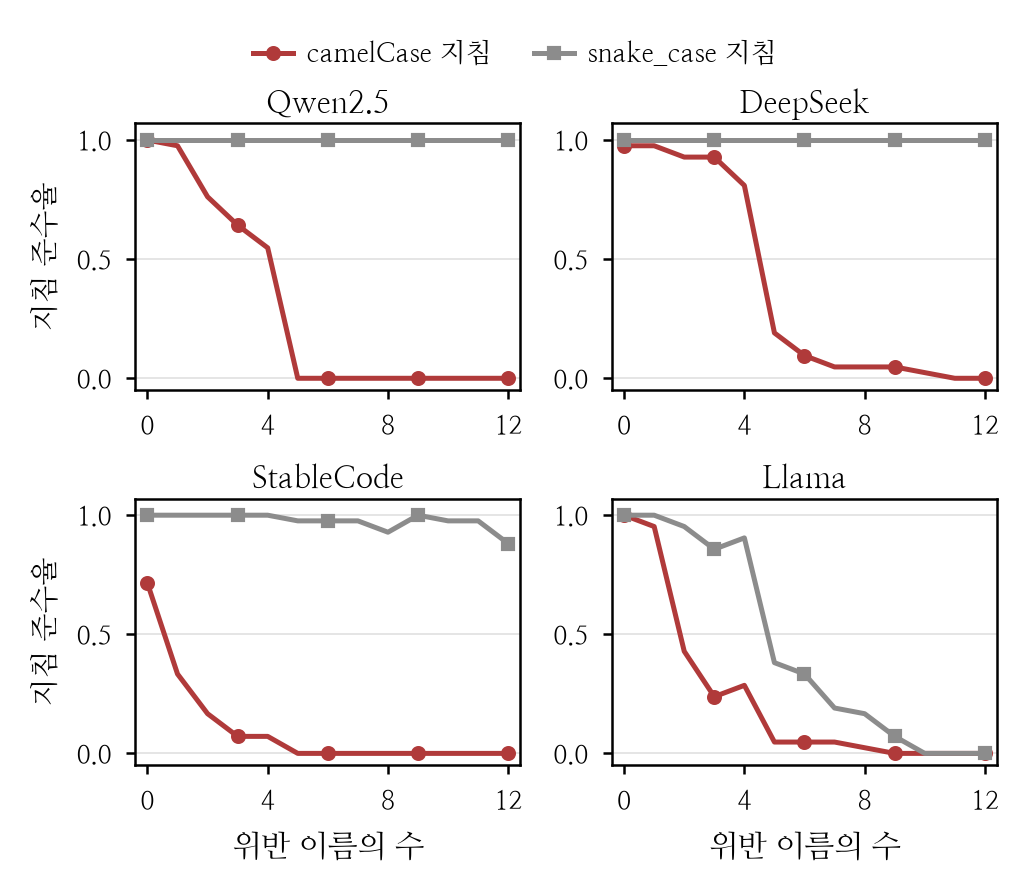
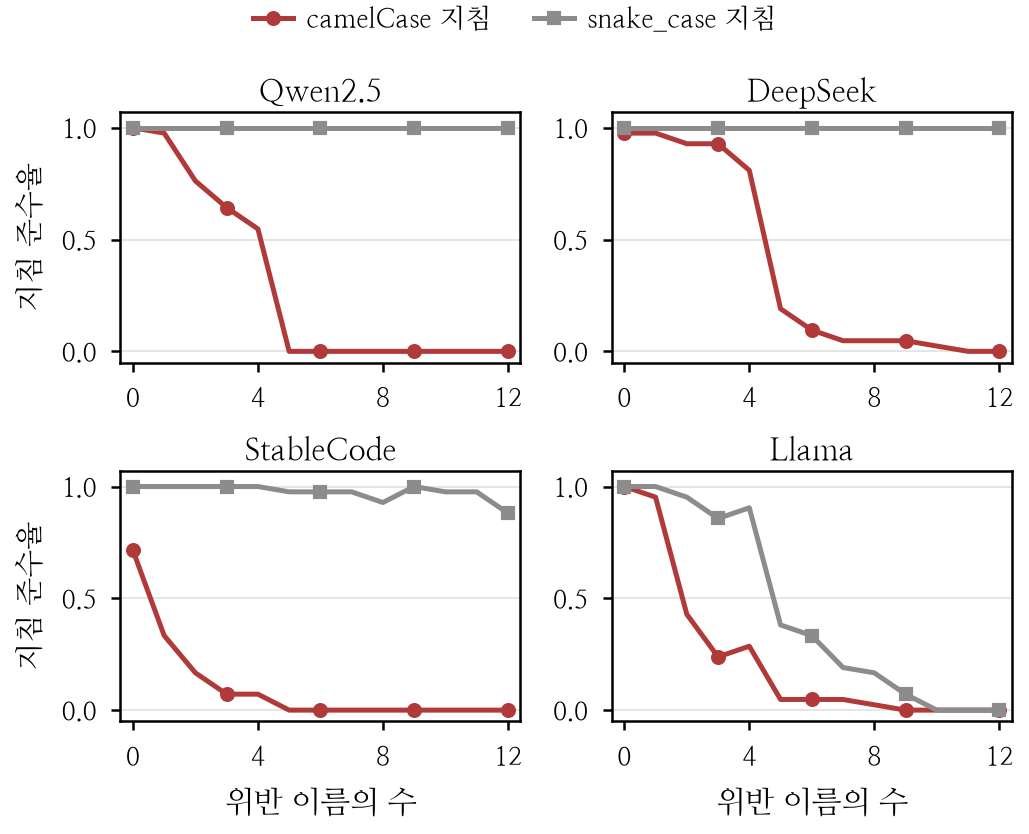
그림 1 상자를 그림 2와 완전히 같게 — 247.07 x 200.38 pt
잘라내기를 끄고 figsize를 그림 2의 저장 크기로 지정하면 결과 크기가 그대로 나온다.
범례 자리는 상자 밖으로 넘기지 않고 rect로 위쪽을 비워 안에서 확보했다.
두 그림의 가로·세로가 소수점까지 일치한다.

Claude-Session: https://claude.ai/code/session_01YabXMXZ1FHdG4oH1H9fXx5

diff --git a/scripts/paper_figures_ko.py b/scripts/paper_figures_ko.py
@@ -142,11 +142,10 @@ def fig_cliff(out: Path):
         by[(c["model"]["family"], c["instruction"]["target_notation"])][n_viol].append(
             1.0 if r["metrics"]["extra"]["first_compliant"] else 0.0)
 
-    # 판 하나의 크기를 그림 2와 같게 만든다(87.21 x 64.00 pt). figsize·여백을 그림 2의
-    # fig_attention과 똑같이 두면 격자 기하가 일치한다. 범례는 판 밖 위에 붙이고
-    # 잘라내기로 함께 담으므로, 두 그림은 **폭이 같고 그림 1만 범례 줄만큼 높다** —
-    # 단폭에 넣었을 때 판 크기가 어긋나지 않는다.
-    fig, axes = plt.subplots(2, 2, figsize=(3.3, 2.65))
+    # 상자를 그림 2의 저장 크기(247.07 x 200.38 pt)에 못 박는다. 잘라내기를 끄면
+    # (_save의 tight=False) figsize가 곧 결과 크기이므로 두 그림의 높이가 정확히 같다.
+    # 범례 자리는 이 상자 **안에서** 위쪽을 비워 확보한다(rect).
+    fig, axes = plt.subplots(2, 2, figsize=(247.07 / 72, 200.38 / 72))
     for ax, m in zip(axes.ravel(), ORDER):
         for tgt, color, mk, lab in (("camel", RED, "o", "camelCase 지침"),
                                     ("snake", GRAY, "s", "snake_case 지침")):
@@ -168,13 +167,12 @@ def fig_cliff(out: Path):
         ax.set_xlabel("위반 이름의 수", fontsize=7.5)
     for ax in axes[:, 0]:
         ax.set_ylabel("지침 준수율", fontsize=7)
-    # 여백은 그림 2와 동일. rect를 건드리지 않아야 판 크기가 그림 2와 같아진다.
-    fig.tight_layout(pad=0.3, h_pad=0.7, w_pad=0.9)
+    fig.tight_layout(pad=0.45, h_pad=0.7, w_pad=0.9, rect=(0, 0, 1, 0.925))
     h, l = axes[0][0].get_legend_handles_labels()
-    fig.legend(h, l, ncol=2, loc="lower center", bbox_to_anchor=(0.5, 1.0),
+    fig.legend(h, l, ncol=2, loc="upper center", bbox_to_anchor=(0.5, 1.005),
                fontsize=6.4, handlelength=1.5, columnspacing=1.6, borderaxespad=0.0,
                frameon=False)
-    _save(fig, out, "ko_cliff")
+    _save(fig, out, "ko_cliff", tight=False)
 
 
 # ── 그림 2. Key와 Value 중 어느 쪽이 표기를 나르나 (step3 + step5) ───────
